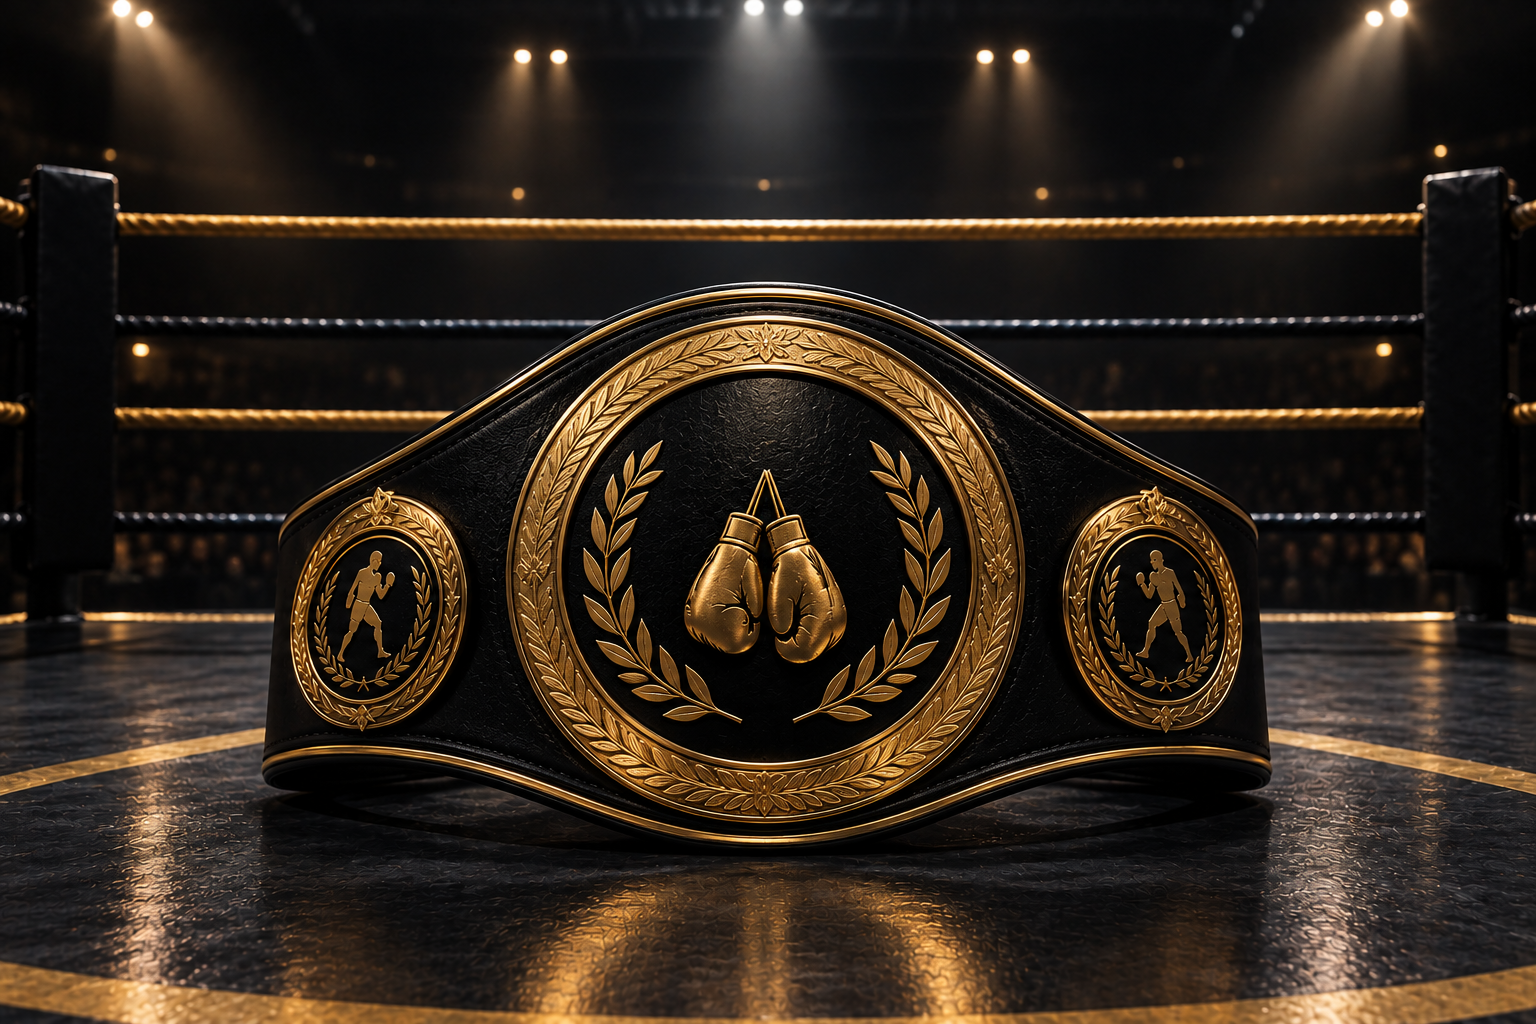
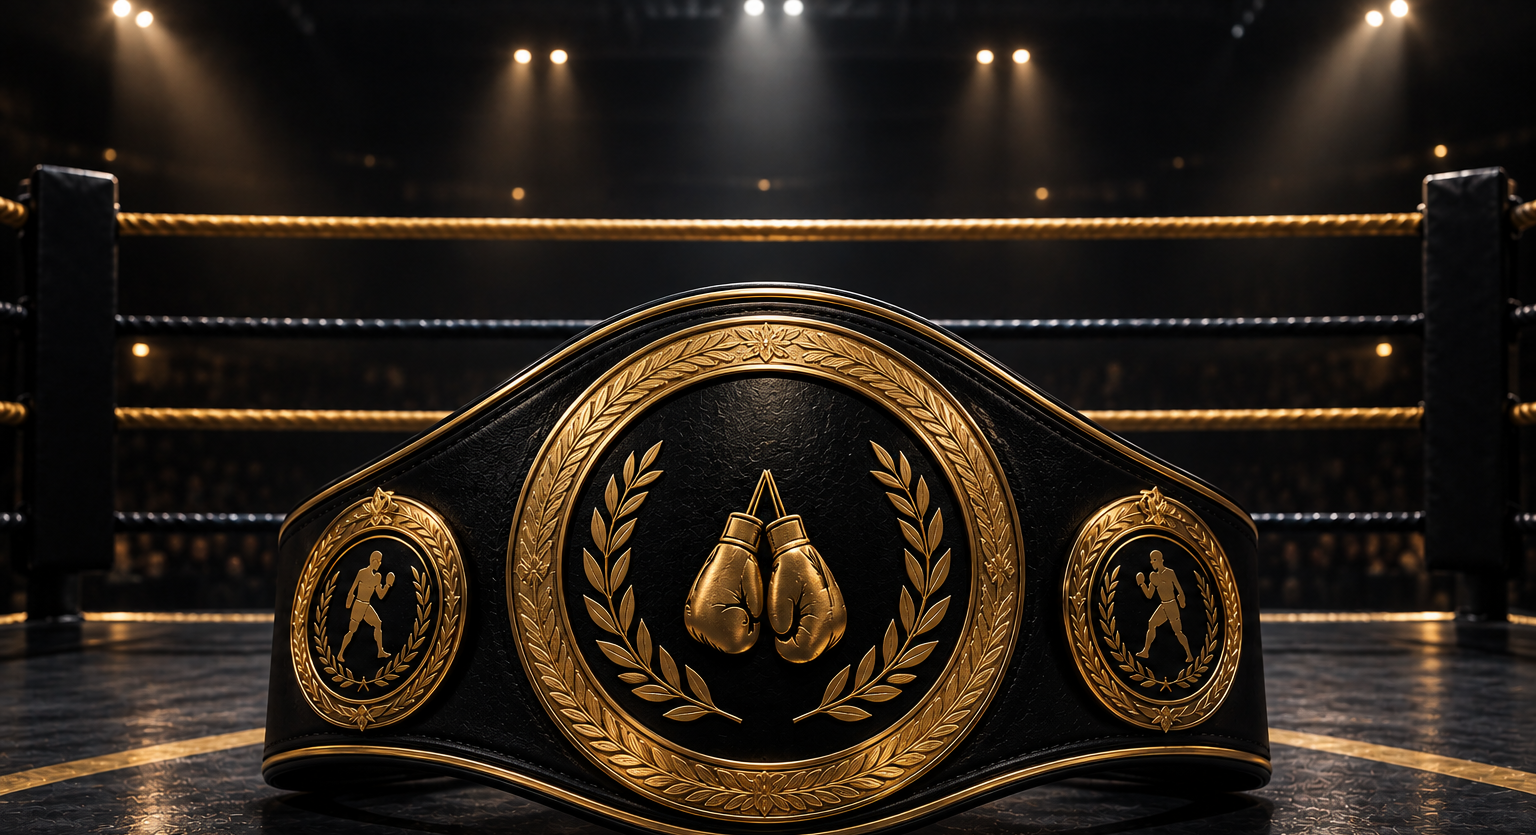
zadnja1

diff --git a/styles.css b/styles.css
@@ -149,7 +149,13 @@ nav a:hover, nav a:focus-visible, nav a.active{
 /* ---------- HERO PHOTO ZONE (hero + upoznaj klub share one continuous photo/fade) ---------- */
 .hero-photo-zone{
   position:relative;
-  background:#0d0b09 url('pozadina0.png') center 20%/cover no-repeat;
+  background:
+       
+        url("pozadinab.png");
+    background-size: width="200 ";
+    background-position: center top;
+    background-attachment: fixed;
+    background-repeat: no-repeat;
 }
 .hero-photo-zone::before{
   content:"";
@@ -380,11 +386,41 @@ section:last-of-type{border-bottom:none;}
 }
 
 /* ---------- ABOUT ---------- */
+#o-nama {
+    position: relative;
+    min-height: 100vh;
+    background:
+        linear-gradient(
+            rgba(10,10,10,0.75),
+            rgba(10,10,10,0.85)
+        ),
+        url("pozadina4.jpg");
+    background-size: width="200 ";
+    background-position: center top;
+    background-attachment: fixed;
+    background-repeat: no-repeat;
+}
+
+
+#o-nama .wrap {
+    position: relative;
+    z-index: 2;
+}
+
+
+.about-grid,
+.free-block,
+.map-card {
+    background: rgba(0,0,0,0.55);
+    backdrop-filter: blur(8px);
+    border: 1px solid rgba(212,175,55,0.25);
+    border-radius: 20px;
+}
 .about-grid{
   display:grid;
   grid-template-columns:1.1fr 0.9fr;
   gap:60px;
-  margin-top:44px;
+  margin-top:64px;
 }
 .about-facts{
   display:grid;
@@ -407,6 +443,7 @@ section:last-of-type{border-bottom:none;}
 }
 @media (max-width:860px){
   .about-grid{grid-template-columns:1fr;}
+  
 }
 
 /* ---------- COACHES ---------- */
@@ -668,6 +705,7 @@ section:last-of-type{border-bottom:none;}
   display:grid;
   grid-template-columns:1fr 1fr;
   gap:50px;
+   
 }
 .contact-list{list-style:none; margin:0; padding:0; display:grid; gap:22px;}
 .contact-list li{display:flex; gap:16px; align-items:flex-start;}

diff --git a/o-nama.html b/o-nama.html
@@ -34,12 +34,12 @@
 <section id="o-nama">
   <div class="wrap">
     <div class="round-label mono"><svg viewBox="0 0 24 24" fill="none" stroke="currentColor" stroke-width="1.8"><path d="M12 3a5 5 0 00-5 5v2.5l-1.5 3.5h13l-1.5-3.5V8a5 5 0 00-5-5z"/><path d="M9.5 17a2.5 2.5 0 005 0"/></svg>Round 1 — O nama</div>
-    <h2 class="section-title">TRADICIJA. DISCIPLINA. REZULTAT.</h2>
+    <h2 class="section-title">TRADICIJA.<br> DISCIPLINA.<br> REZULTAT.</h2>
     <div class="about-grid">
       <p class="lede">
         Već 30 godina gradimo tradiciju,
-         kvalitet i uspjeh. Bokserski klub 
-         Ilidža Sarajevo kroz tri decenije 
+         kvalitet i uspjeh.<br> Bokserski klub 
+         Ilidža kroz tri decenije 
          rada iznjedrio je brojne uspješne 
          takmičare koji su osvajali medalje
           na državnim, evropskim i Mediteranskim 

diff --git a/index.html b/index.html
@@ -70,7 +70,7 @@
       <a class="teaser-card" href="raspored.html">
         <span class="teaser-num mono">03</span>
         <h3>Raspored</h3>
-        <p>Jedan termin, radnim danima u 19:00 — cijele godine, bez izuzetka.</p>
+        <p>Jedan termin, radnim danima u 19:00 — cijele godine.</p>
         <span class="teaser-arrow">Vidi raspored →</span>
       </a>
       <a class="teaser-card" href="galerija.html">
@@ -82,7 +82,7 @@
       <a class="teaser-card" href="kontakt.html">
         <span class="teaser-num mono">05</span>
         <h3>Kontakt</h3>
-        <p>Adresa, lokacija na mapi i način da nas kontaktiraš — treninzi su besplatni.</p>
+        <p>Adresa, lokacija na mapi i način da nas kontaktiraš.</p>
         <span class="teaser-arrow">Kontaktiraj nas →</span>
       </a>
     </div>

diff --git a/galerija.html b/galerija.html
@@ -43,6 +43,8 @@
       <a class="gallery-item" href="takmicenja1.jpg" ><img src="takmicenja1.jpg" alt="Ekipa na turniru" loading="lazy"></a>
       <a class="gallery-item" href="team-photo.jpg" ><img src="team-photo.jpg" alt="Ekipa BK Ilidža u sali" loading="lazy"></a>
           <a class="gallery-item" href="galerija1.jpg" ><img src="galerija1.jpg" alt="Ekipa BK Ilidža u sali" loading="lazy"></a>
+<a class="gallery-item" href="josjedna.jpg.png" ><img src="josjedna.jpg.png" alt="Ekipa BK Ilidža u sali" loading="lazy"></a>
+<a class="gallery-item" href="takmicenja3.jpg" ><img src="takmicenja3.jpg" alt="Ekipa BK Ilidža u sali" loading="lazy"></a>
 
     </div>
   </div>

diff --git a/kontakt.html b/kontakt.html
@@ -34,7 +34,10 @@
 <section id="kontakt">
   <div class="wrap">
     <div class="round-label mono"><svg viewBox="0 0 24 24" fill="none" stroke="currentColor" stroke-width="1.8"><path d="M12 3a5 5 0 00-5 5v2.5l-1.5 3.5h13l-1.5-3.5V8a5 5 0 00-5-5z"/><path d="M9.5 17a2.5 2.5 0 005 0"/></svg>Kontakt</div>
-    <h2 class="section-title">Dođi na prvi trening.</h2>
+    <h2 class="section-title"></h2>
+    <br>
+    <br>
+    
     <div class="free-block" style="margin-top:0; margin-bottom:44px;">
       <div class="free-badge"><span>100%<br>Besplatno</span></div>
       <p class="lede" style="margin-top:0;">

diff --git a/treneri.html b/treneri.html
@@ -34,7 +34,7 @@
 <section id="treneri">
   <div class="wrap">
     <div class="round-label mono"><svg viewBox="0 0 24 24" fill="none" stroke="currentColor" stroke-width="1.8"><path d="M12 3a5 5 0 00-5 5v2.5l-1.5 3.5h13l-1.5-3.5V8a5 5 0 00-5-5z"/><path d="M9.5 17a2.5 2.5 0 005 0"/></svg>Round 2 — Treneri</div>
-    <h2 class="section-title">Ljudi koji vode trening.</h2>
+    
     <div class="coach-grid">
       <div class="coach-card">
         <div class="coach-photo"><img src="Mico1.jpg" alt="Almedin Fetahović"></div>

diff --git a/almedin-fetahovic.html b/almedin-fetahovic.html
@@ -55,7 +55,7 @@
          zlatne medalje za Bosnu i Hercegovinu na velikom međunarodnom
           multisportskom takmičenju. Nakon takmičarske karijere posvetio 
           se trenerskom radu, gdje je svoje iskustvo i znanje prenio na 
-          brojne generacije boksera. Kao trener BK Ilidža nastavlja stvarati
+          brojne generacije boksera. Kao trener BK Ilidža nastavlja odgajati
            vrhunske sportiste i predstavljati klub i Bosnu i Hercegovinu na najvišem nivou.
       </p>
     </div>
